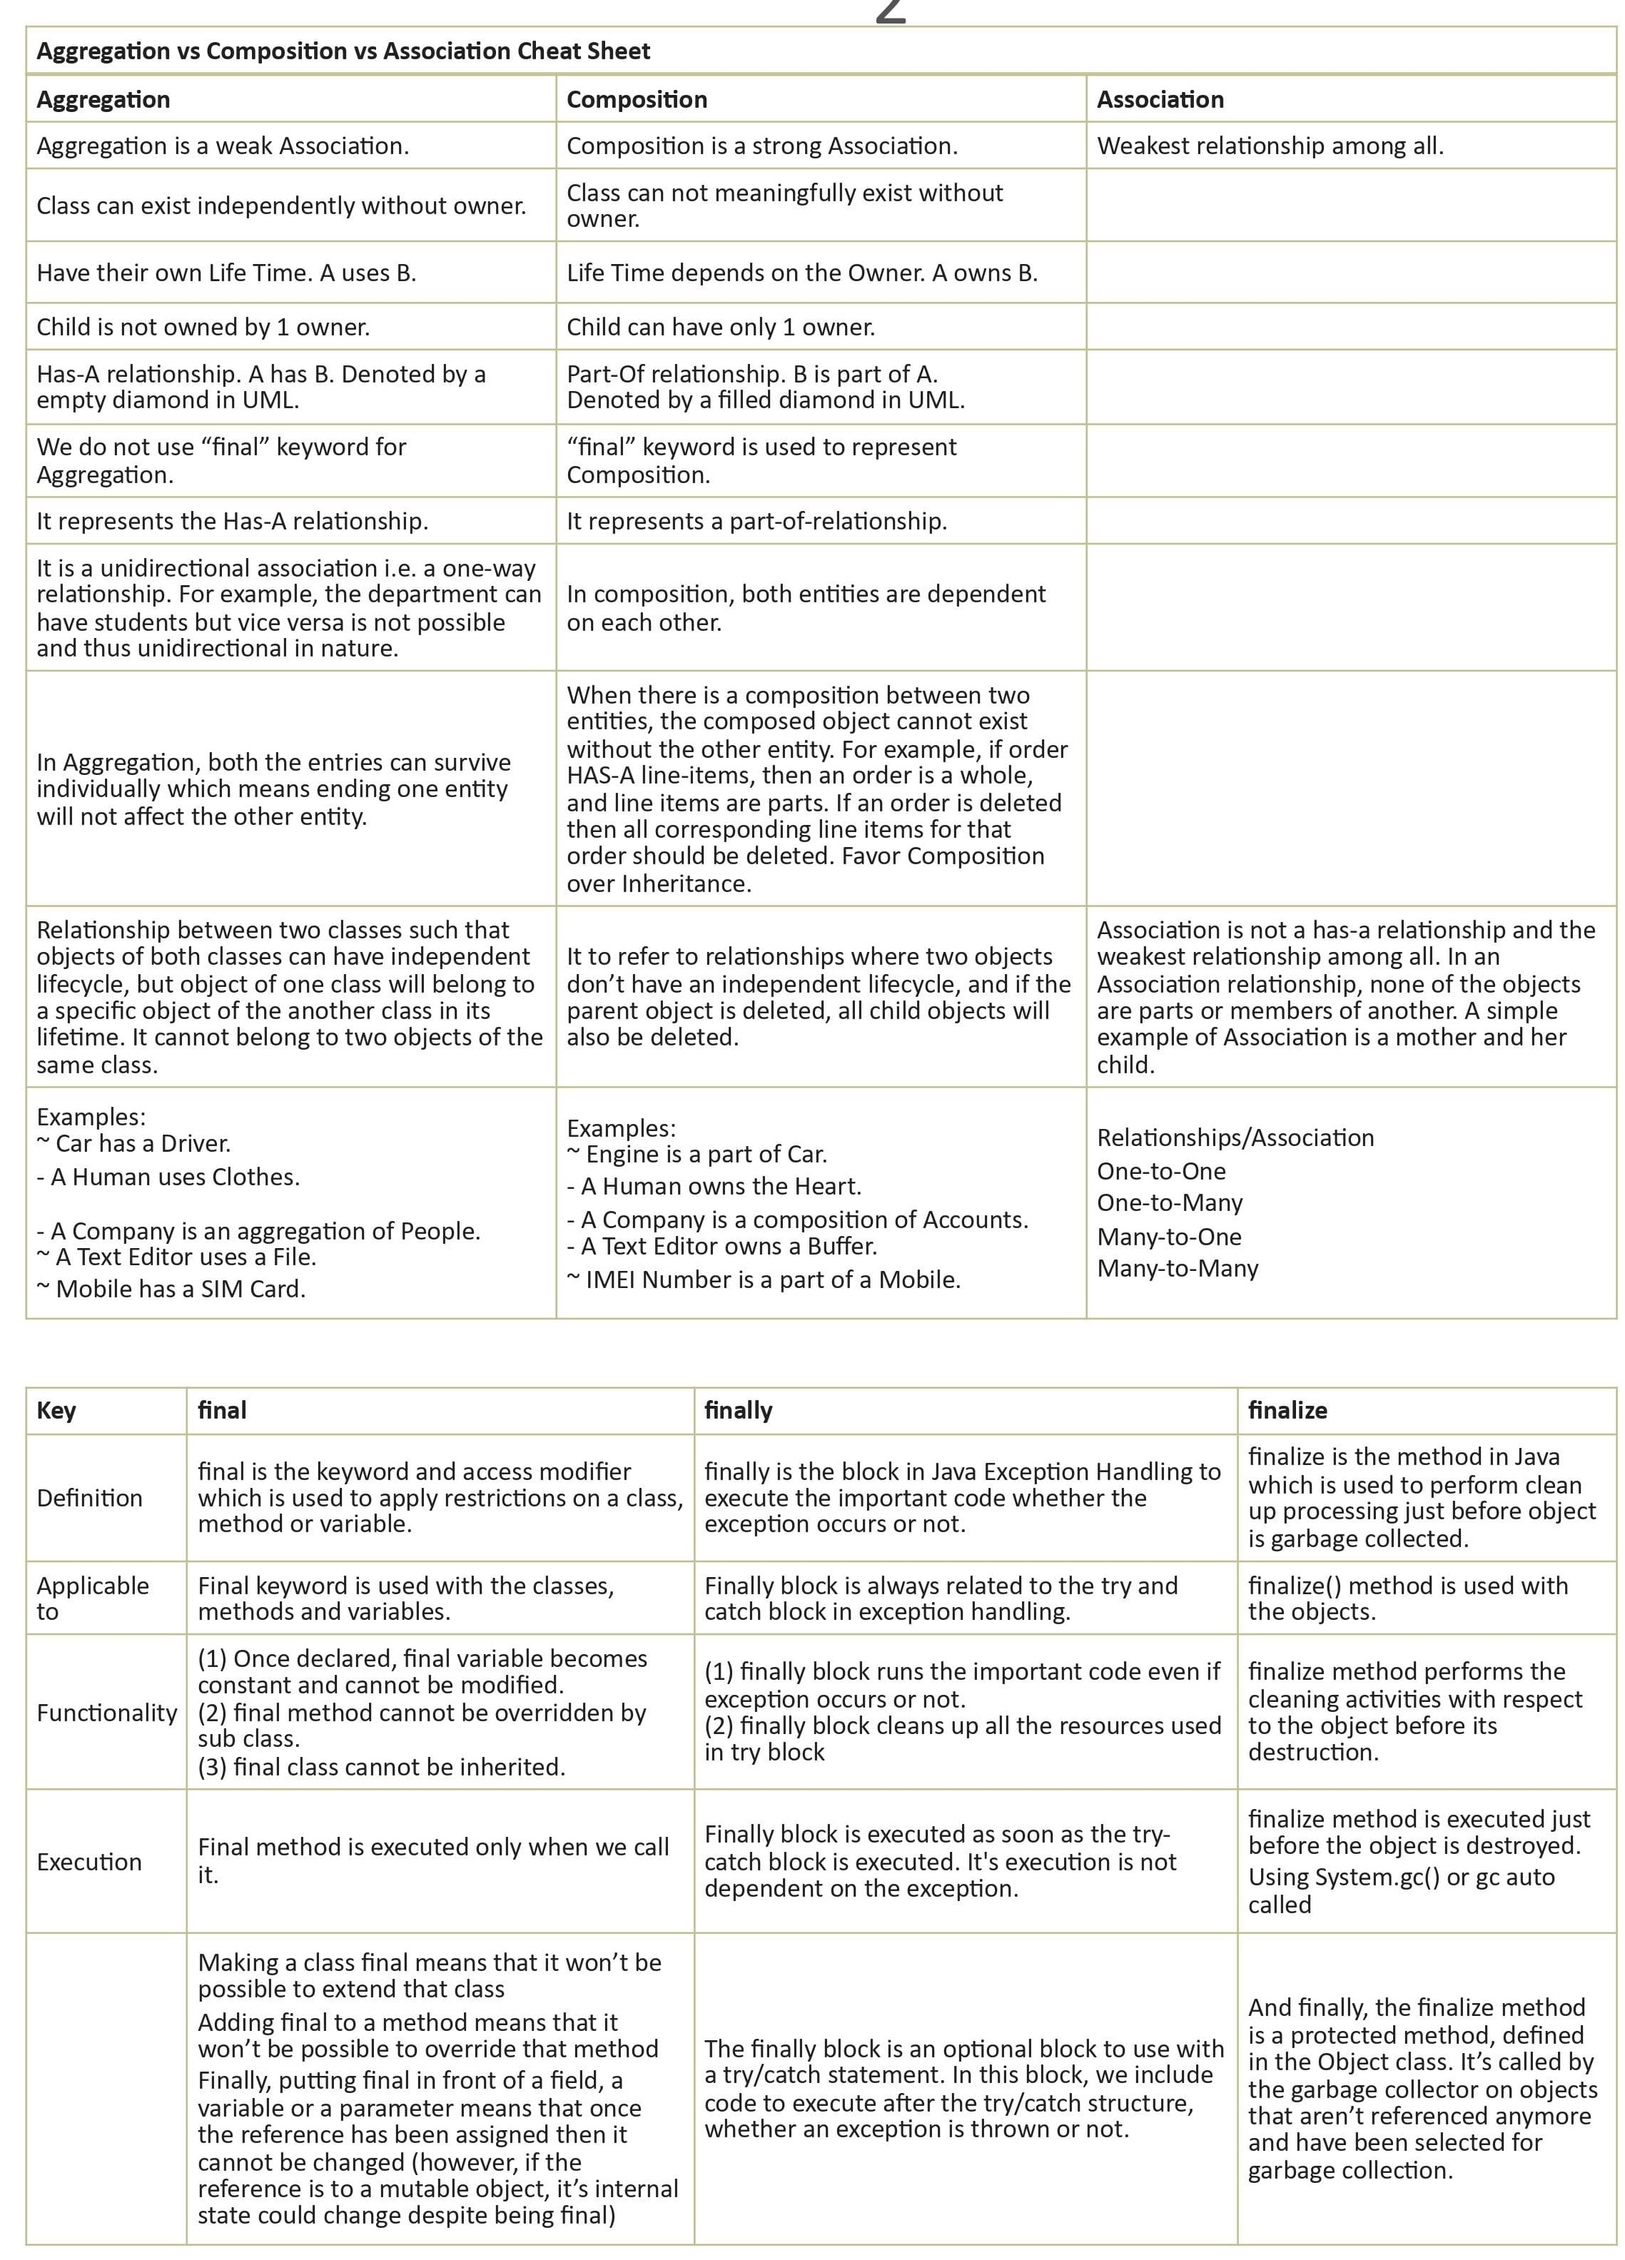
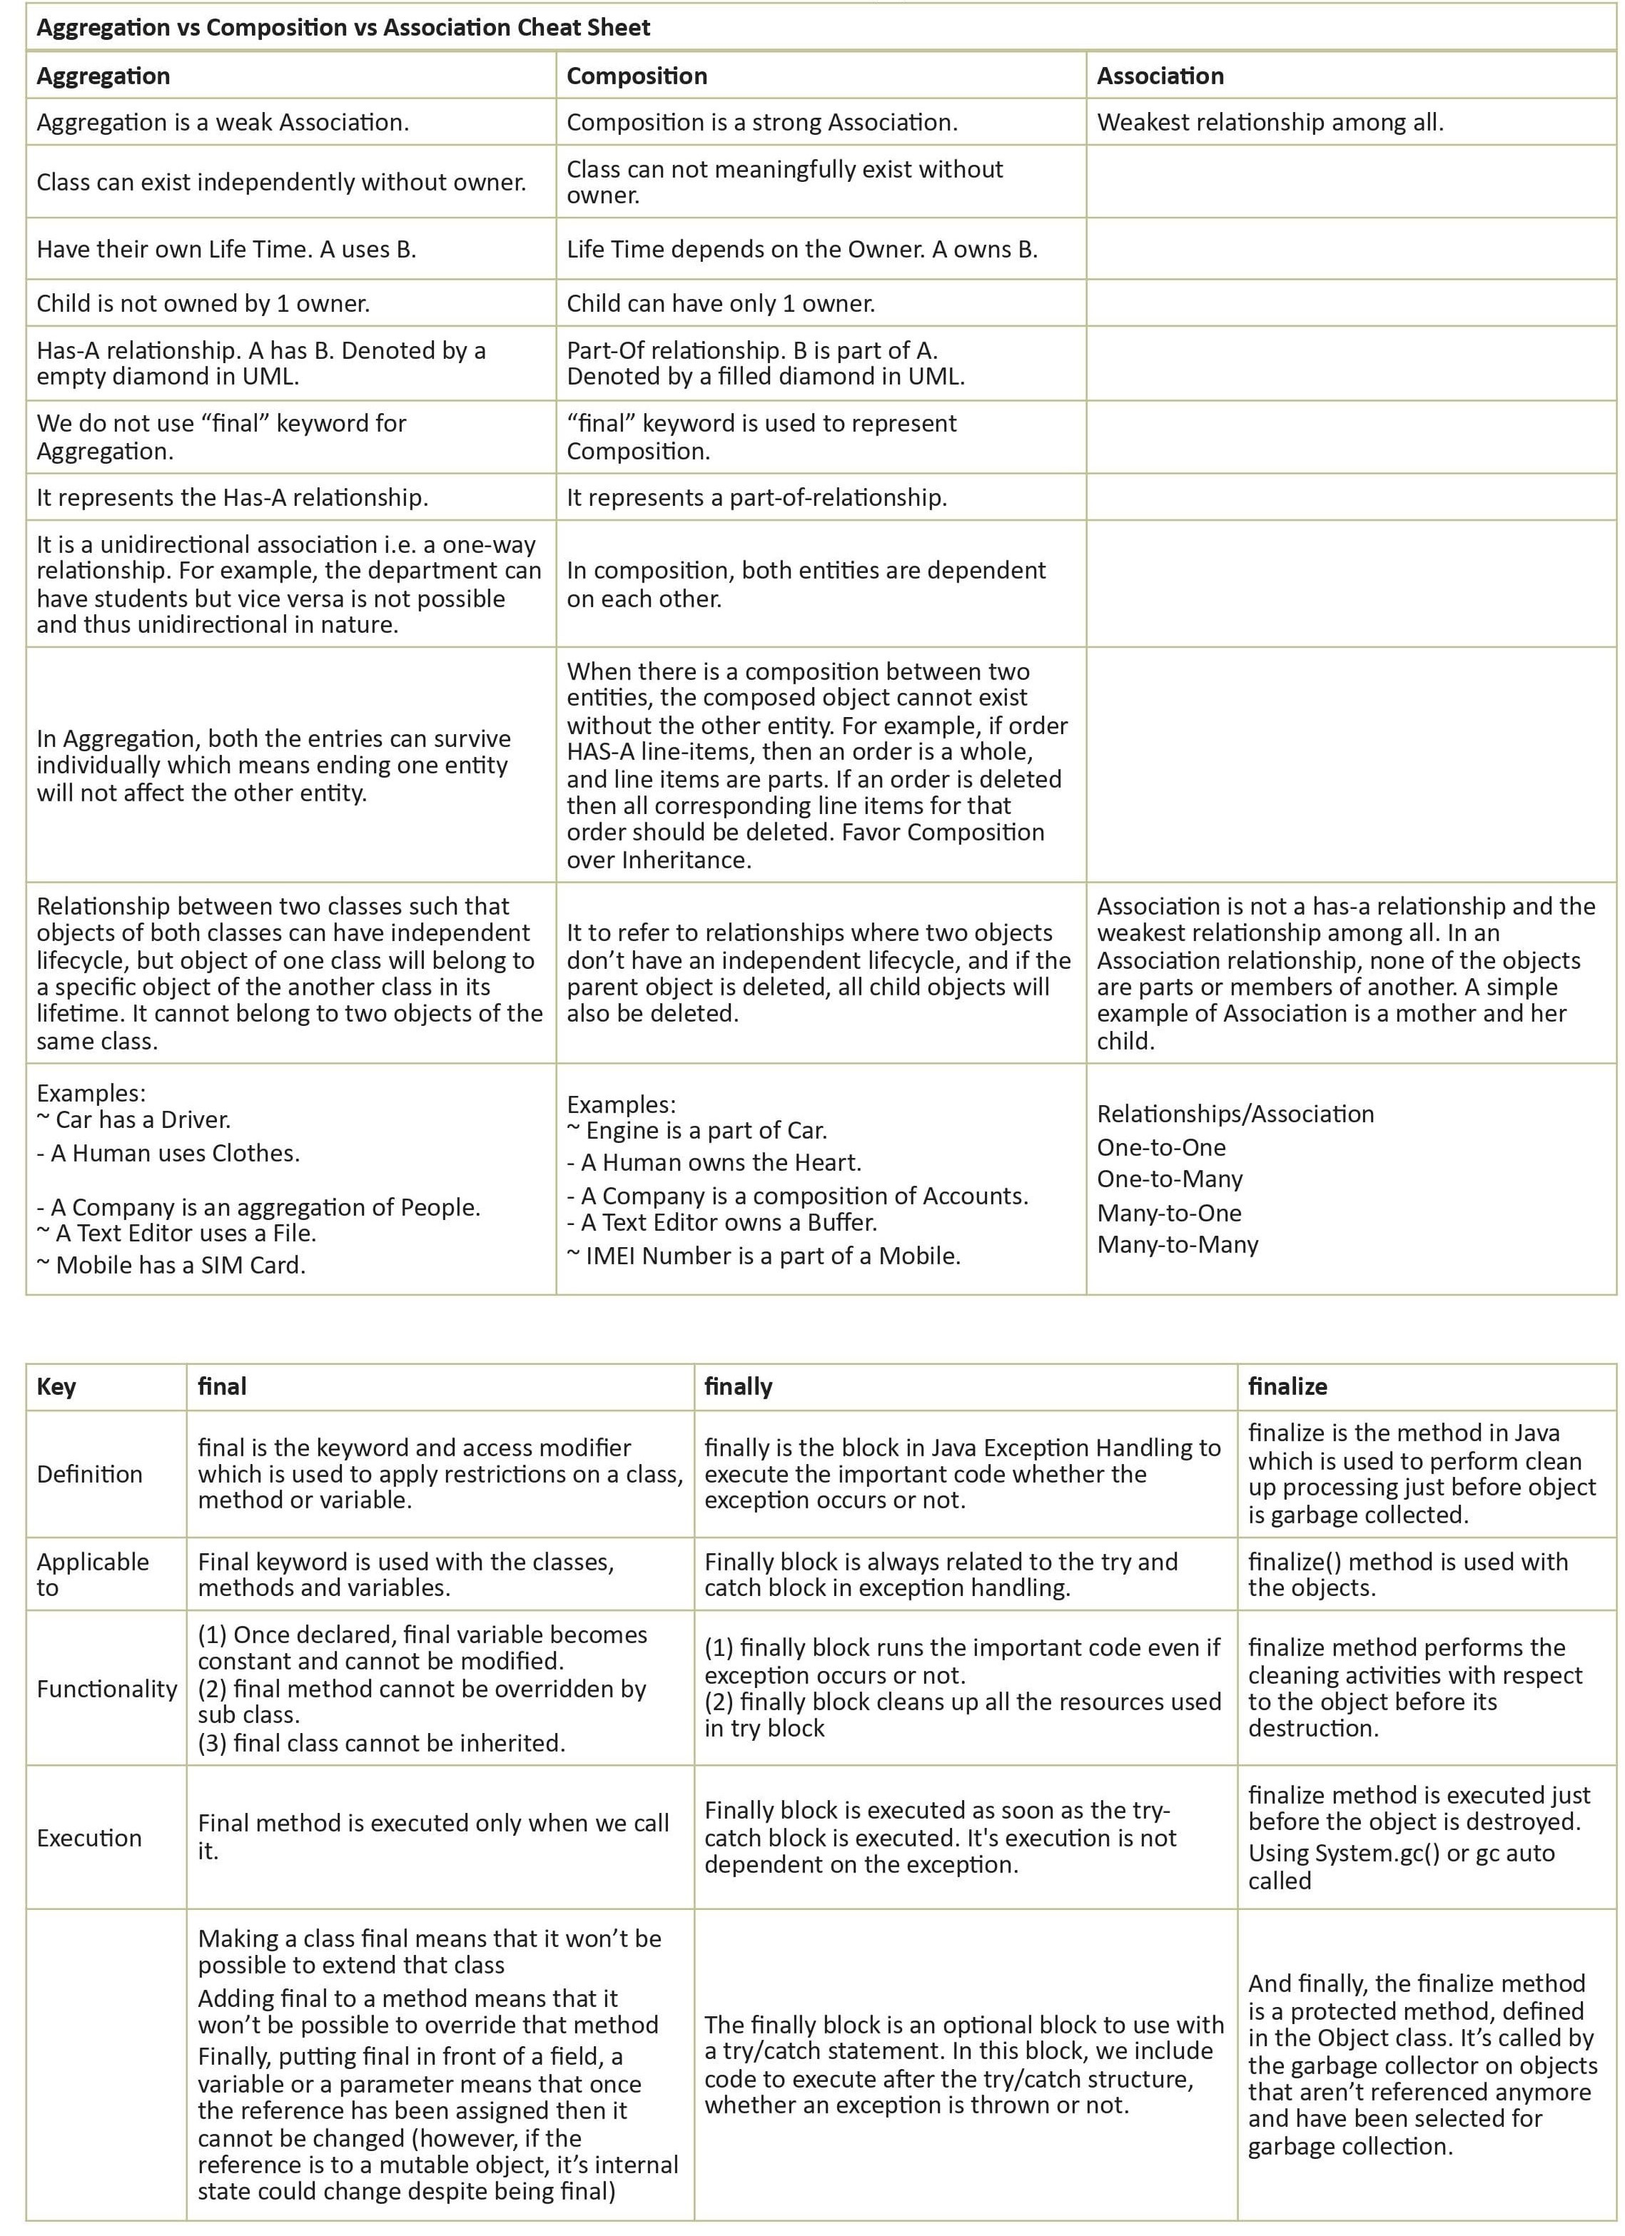
cs

Changed region(s): [[0.0, 0.0, 0.9978, 0.9904], [0.4365, 0.8666, 0.9978, 0.9595], [0.0312, 0.8047, 0.0935, 0.8357]]

diff --git a/java/cheatsheets.html b/java/cheatsheets.html
@@ -1,10 +1,82 @@
 <!DOCTYPE html>
 <html lang="en">
 <head>
-    <meta charset="UTF-8">
-    <title>Title</title>
+    <title>Cheat Sheets</title>
+    <meta name="viewport" content="width=device-width, initial-scale=1.0">
+    <link rel="stylesheet" href="../js/styles.css"/>
 </head>
-<body>
+<body data-sidebar="cs">
+<nav>
+    <button class="mobile-sidebar-btn" id="mobileSidebarBtn">☰</button>
+    <div class="breadcrumbs">
+        <a href="../home.html">Home</a>
+        <span class="separator">/</span>
+        <a href="#">Java Cheat Sheets</a>
+    </div>
+</nav>
 
+<!-- Header will be inserted by JavaScript -->
+
+<!-- Sidebar will be inserted by JavaScript -->
+
+<!-- Main Content Section -->
+<main id="content">
+    <h3>1. Java Architecture</h3>
+    <img src="../js/images/cheat/jvm.jpg" class="responsive-img1" alt="">
+    <br>
+    <hr>
+    <h3>2. Association, Composition and Aggregation</h3>
+    <img src="../js/images/cheat/aggregation.jpg" class="responsive-img1" alt="">
+    <br>
+    <hr>
+    <h3>3. Java OOPs Concepts</h3>
+    <img src="../js/images/cheat/oops.webp" class="responsive-img1" alt="">
+    <img src="../js/images/cheat/oops1.png" class="responsive-img1" alt="">
+    <br>
+    <hr>
+    <h3>4. Method Overloading and Method Overriding</h3>
+    <img src="../js/images/cheat/methodoverride.jpg" class="responsive-img1" alt="">
+    <br>
+    <hr>
+    <h3>5. Abstract Class and Interface</h3>
+    <img src="../js/images/cheat/interface.jpg" class="responsive-img1" alt="">
+    <br>
+    <hr>
+    <h3>6. Java String</h3>
+    <img src="../js/images/cheat/string.jpg" class="responsive-img1" alt="">
+    <br>
+    <hr>
+    <h3>Java String</h3>
+    <img src="../js/images/cheat/string1.jpg" class="responsive-img1" alt="">
+    <br>
+    <hr>
+    <h3>7. Java Exception Handling</h3>
+    <img src="../js/images/cheat/exception.jpg" class="responsive-img1" alt="">
+    <br>
+    <hr>
+    <h3>8. Java Threads</h3>
+    <img src="../js/images/cheat/thread.jpg" class="responsive-img1" alt="">
+    <br>
+    <hr>
+    <h3>9. Java Collections</h3>
+    <img src="../js/images/cheat/collections.jpg" class="responsive-img1" alt="">
+    <br>
+    <hr>
+    <h3>10. Java HashMap internal working</h3>
+    <img src="../js/images/cheat/Hashmap.jpg" class="responsive-img1" alt="">
+    <br>
+    <hr>
+    <h3>11. Java 8 Functional Interfaces</h3>
+    <img src="../js/images/cheat/Java8FunctionalInterfaces.webp" class="responsive-img" alt="">
+    <br>
+    <hr>
+    <h3>12. Java 8 Interview Sample Coding Questions</h3>
+    <img src="../js/images/cheat/Java_8_Interview_Sample_Coding_Questions.jpg" class="responsive-img" alt="">
+</main>
+<!-- Footer will be inserted by JavaScript -->
+
+<!-- Scripts -->
+<script src="../js/sidebar.js"></script>
+<script src="../js/componentLoader.js"></script>
 </body>
 </html>

diff --git a/js/styles.css b/js/styles.css
@@ -24,13 +24,19 @@
     #scrollbar-color: #888 var(--sidebar-bg);
 }
 .responsive-img {
-  width: 60%;   /* or 50%, 300px, etc. */
+  width: 70%;   /* or 50%, 300px, etc. */
   max-width: 100%;
   height: auto;
   display: block;
   margin: 0 auto; /* center it */
 }
-
+.responsive-img1 {
+  width: 95%;   /* or 50%, 300px, etc. */
+  max-width: 100%;
+  height: auto;
+  display: block;
+  margin: 0 auto; /* center it */
+}
 
 /* Root Variables */
 :root {

diff --git a/js/sidebar.js b/js/sidebar.js
@@ -179,6 +179,16 @@ const sidebars = {
     </aside>
   `,
 
+    cs: `
+      <!-- Interview Sidebar -->
+      <aside id="sidebar">
+        <ul class="menu">
+          <h4>Cheat Sheets</h4>
+          <li class="nav-item"><a class="nav-link" data-href="/java/cheatsheets.html" href="#">Java Cheat Sheets</a></li>
+        </ul>
+      </aside>
+    `,
+
   db: `
       <!-- Interview Sidebar -->
       <aside id="sidebar">
